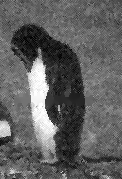
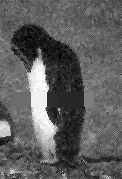
final

diff --git a/HW2/mrf_completion_bp.py b/HW2/mrf_completion_bp.py
@@ -5,8 +5,6 @@ Created on Thu Mar 30 14:35:26 2017
 @author: carmonda
 """
 import sys
-
-import scipy
 from scipy import misc
 import numpy as np
 
@@ -17,9 +15,8 @@ ITERATIONS = 100
 
 
 class Vertex(object):
-    def __init__(self, name='', y=None, neighs=None, in_msgs=None, observed=True, index=-1):
+    def __init__(self, name='', y=None, neighs=None, in_msgs=None, observed=True):
         self._name = name
-        self._index = index
         self._y = y  # original pixel
         if (neighs == None): neighs = set()  # set of neighbour nodes
         if (in_msgs == None): in_msgs = {}  # dictionary mapping neighbours to their messages
@@ -39,9 +36,9 @@ class Vertex(object):
         Return the belief according to the last messages
         :return: xi
         """
-        belief = np.zeros((256))
+        belief = np.ones((256))
         for m in self._in_msgs:
-            belief += self._in_msgs[m]
+            belief *= self._in_msgs[m]
 
         return np.argmax(belief)
 
@@ -62,7 +59,7 @@ class Vertex(object):
 
         elif len(self._in_msgs) == 0:
             # Init case
-            m = np.zeros((256))
+            m = np.ones((256))
         else:
             # Iterative case
 
@@ -74,12 +71,12 @@ class Vertex(object):
                     continue
                 m_tag_single_entry += self._in_msgs[neigh_name]
 
-            m_tag = np.add(phi_mat, m_tag_single_entry)
-            m_tag = np.max(m_tag, axis=1)
+            m_tag = np.dot(phi_mat, m_tag_single_entry).flatten()
+
 
             # Normalized - calc m
-            m_tag_sum = scipy.misc.logsumexp(m_tag)
-            m = m_tag - m_tag_sum
+            m_tag_sum = float(np.sum(m_tag))
+            m = m_tag / m_tag_sum
 
         # send msg to neighbour
         neigh.add_in_msg(m, self._name)
@@ -193,7 +190,7 @@ def build_grid_graph(n, m, img_mat):
     # add vertices:
     for i in range(n * m):
         row, col = (i // m, i % m)
-        v = Vertex(name="v" + str(i), y=img_mat[row][col], observed=is_observed(row, col), index=i)
+        v = Vertex(name="v" + str(i), y=img_mat[row][col], observed=is_observed(row, col))
         g.add_vertex(v)
         if (i % m) != 0:  # has left edge
             g.add_edge((v, V[i - 1]))
@@ -223,24 +220,18 @@ def grid2mat(grid, n, m):
 # process grid:
 def grid_process(graph):
     """
-    process the graph - running the algorithm for LBP
+    process the graph - runnnig the algorithm for LBP
     :param graph:
     :return:
     """
     vertices = graph.vertices()
-    vertices = sorted(vertices, key=lambda x: x._index, reverse=True)
+
     for iter in range(ITERATIONS):
         print("iteration {0}".format(iter))
         for v in vertices:
             # ask for msgs
             for neigh in v.get_neighbours():
                 neigh.snd_msg(v)
-
-        # print("iteration {0} - ".format(iter))
-        # for v in vertices:
-        #     # ask for msgs
-        #     for neigh in v.get_neighbours():
-        #         v.snd_msg(neigh)
 
 
 def get_phi_mat():
@@ -262,7 +253,7 @@ if __name__ == '__main__':
     phi_mat = np.zeros((256, 256))
     for xi in range(256):
         for xj in range(256):
-            phi_mat[xi][xj] = -1 * min(abs(xi - xj), VMAX)
+            phi_mat[xi][xj] = np.exp(-1 * min(abs(xi - xj), VMAX))
 
     # Load image:
     img_path = 'penguin-img.png'
